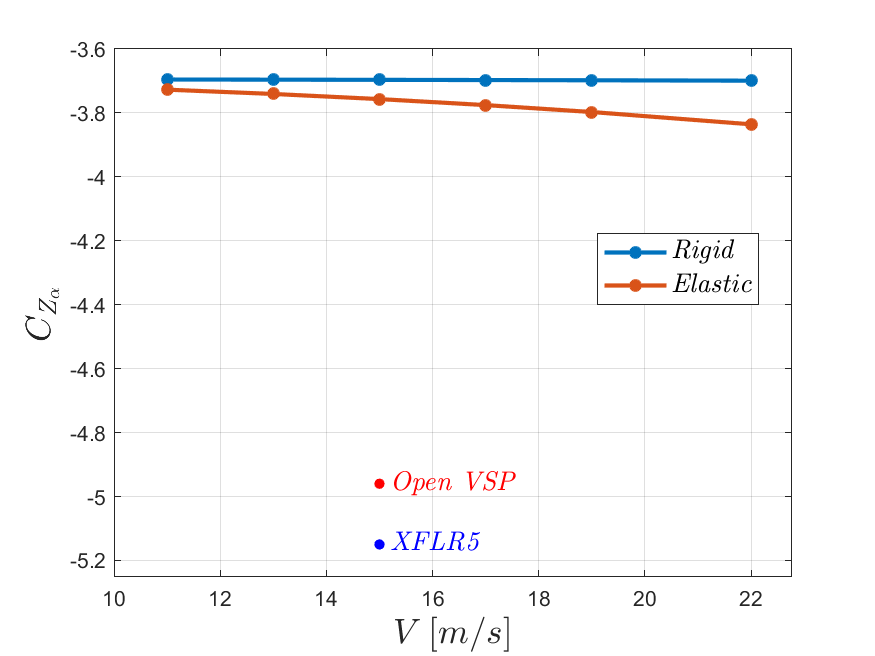
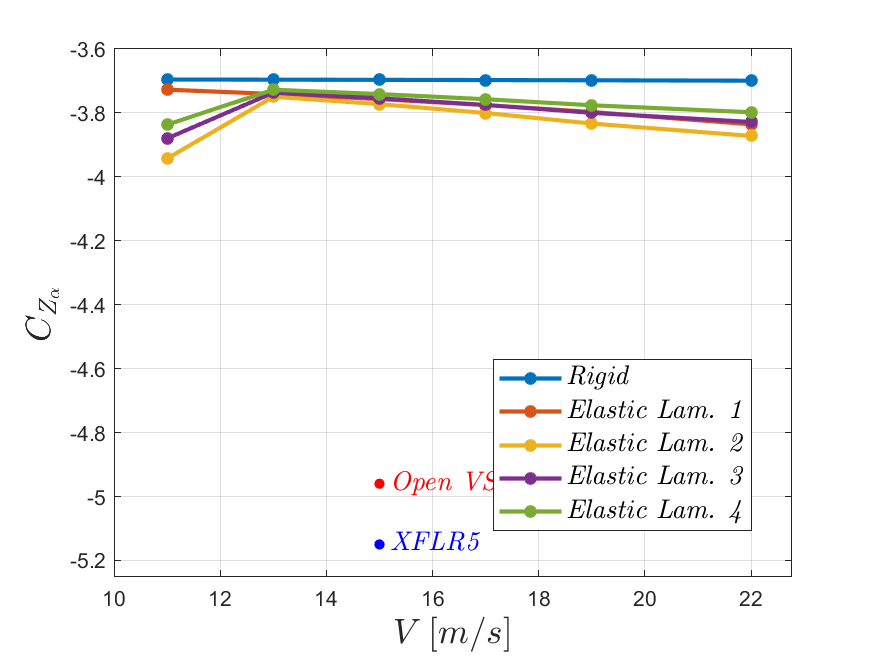
fuck

Changed region(s): [[0.5554, 0.5488, 0.864, 0.7927], [0.1851, 0.122, 0.864, 0.2439], [0.6789, 0.3659, 0.864, 0.4573]]

diff --git a/ANALYSIS RESULTS/Stability_derivatives_laminates.m b/ANALYSIS RESULTS/Stability_derivatives_laminates.m
@@ -7,7 +7,7 @@ name_file_f06_2 = 'long_lam_2.f06';
 name_file_f06_3 = 'long_lam_3.f06';
 name_file_f06_4 = 'long_lam_4.f06';
 
-subcases = 1;
+subcases = 6;
 
 SD = get_stability_derivatives(name_file_f06, 6);
 SD_2 = get_stability_derivatives(name_file_f06_2, subcases);
@@ -16,7 +16,7 @@ SD_4 = get_stability_derivatives(name_file_f06_4, subcases);
 
 %% PLOTS
 velocity_vector=[11,13,15,17,19,22];
-velocity_vector_cases=[15];
+velocity_vector_cases=velocity_vector;
 
 line_width = 2;
 fontsize_label = 17;
